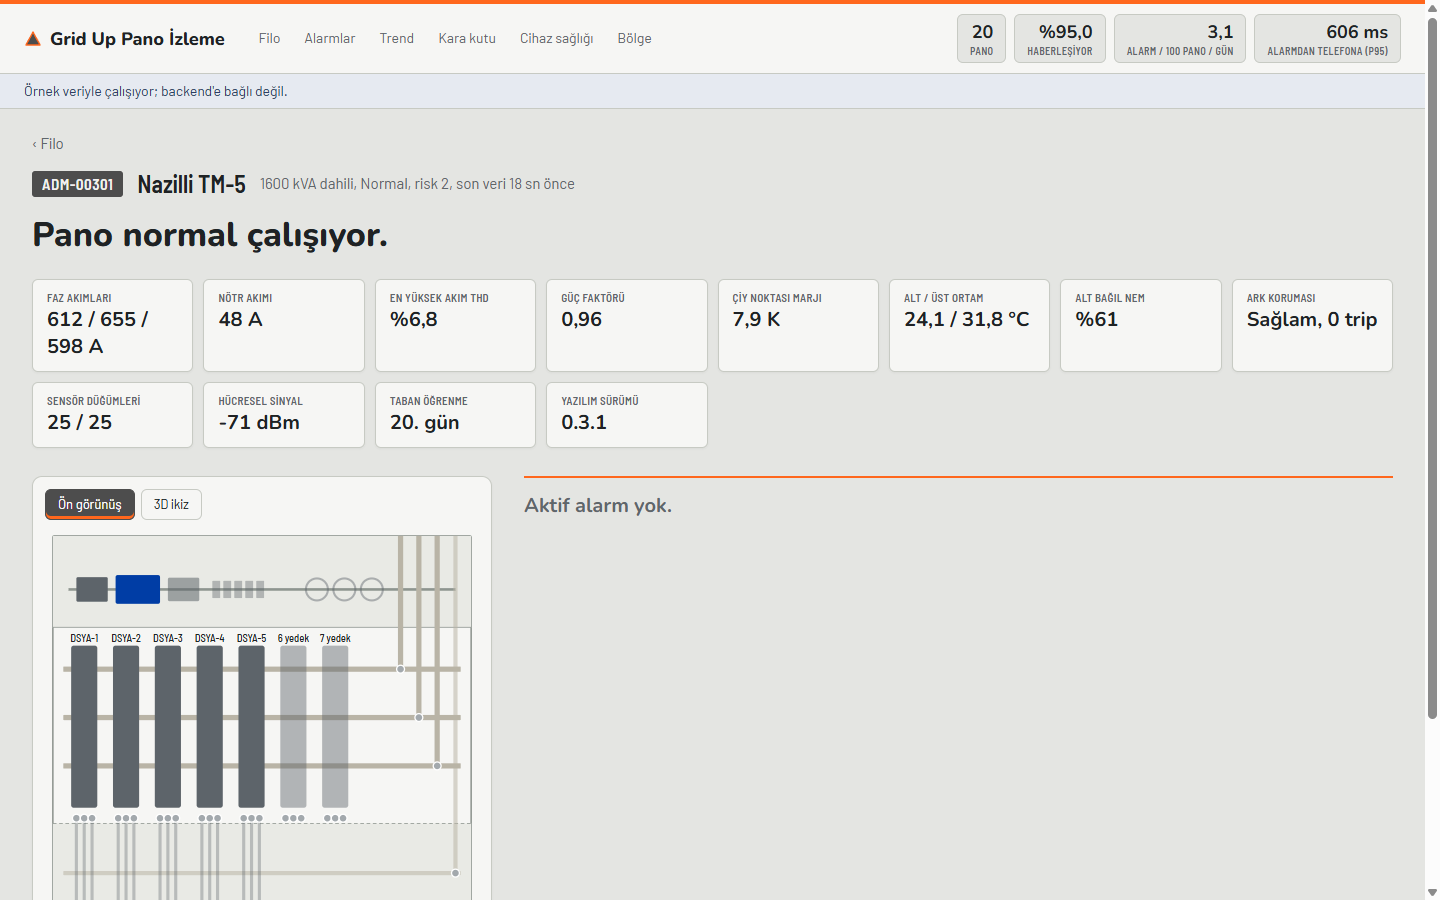
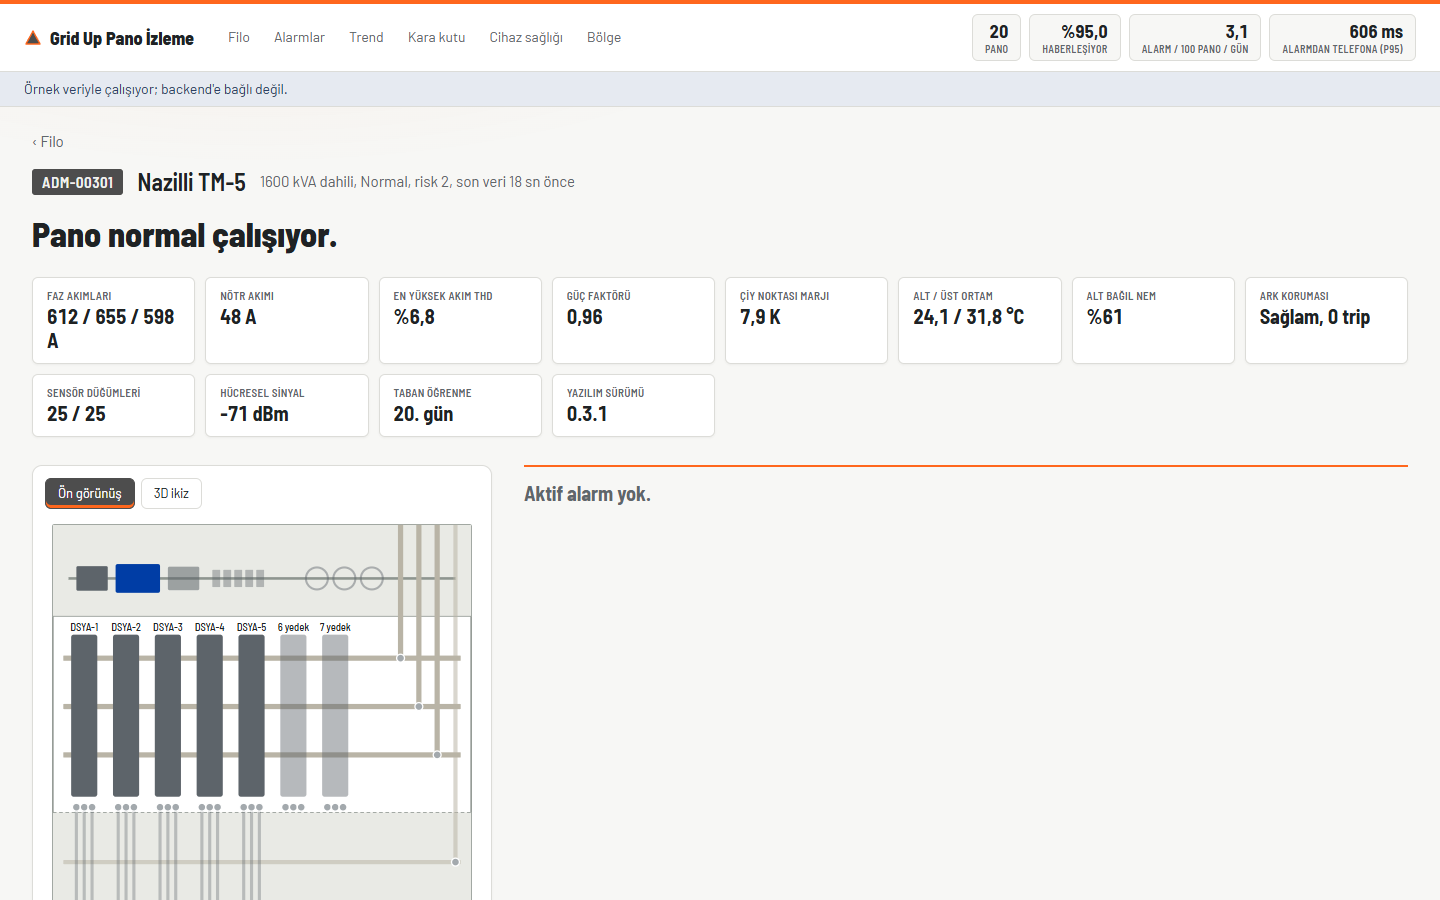
style(frontend): zemin aciktan beyaza + tek font ailesi (kullanici geri bildirimi)
Kullanici: "arkaplani biraz daha ac beyaz tonlari... grimsi renkten
kurtul bir de fontta tek bir standarttan ilerleyelim."

- theme.css: --bg #E4E5E2 -> #F7F7F5, --surface -> #FFFFFF (tam
  beyaz kart zemini), --well/--line orantili acildi. body'ye ust
  banttan sarkan %8 opakliktaki turuncu radial-gradient eklendi —
  marka rengini zemine tasir, veri alanindaki durum renkleriyle
  yarismaz (ISA-101 "renk = alarm" kurali korunur).
- --display token'i Nunito'dan Barlow Semi Condensed'e cevrildi
  (yani --cond ile ayni yigin) — ayri bir marka fontu yok, urun tek
  font ailesi (Barlow + Barlow Semi Condensed, ayni ailenin iki
  genisligi) kullaniyor. @fontsource/nunito paketten kaldirildi
  (npm uninstall); main.tsx'e Barlow Semi Condensed 800 eklendi.
- assets/ekran/: 8 dosya dorduncu kez yeniden cekildi.

Ayrinti: TASARIM-REVIZYONU.md §11, STATUS.md §13. Onceki adimda
yayinlanan onceki/sonraki karsilastirma Artifact'i da guncellendi.

Dogrulama: tsc temiz, 71/71 test yesil, build basarili; 1440px ve
390px genislikte gorsel+konsol kontrolunden gecti.

diff --git a/frontend/src/theme.css b/frontend/src/theme.css
@@ -6,13 +6,13 @@
    veri alaninda, grafiklerde ve 3D sahnede asla kullanilmaz (plan §3.2).
    Kaynak: admelektrik.com.tr ve gdzelektrik.com.tr hesaplanmis CSS token'lari. */
 :root {
-  --bg: #e4e5e2;
-  --surface: #f6f6f4;
-  --well: #d9dbd5;
+  --bg: #f7f7f5; /* acik, beyaza yakin zemin — RAL7035 grimsi tondan bilerek uzaklasildi */
+  --surface: #ffffff;
+  --well: #eeeeec;
   --plate: #4d4d4d; /* ADM/GDZ ikincil rengi: kimlik plakalari, birincil dugmeler */
   --ink: #1f2224;
   --dim: #5f666b;
-  --line: #c7cac3;
+  --line: #dcdcd8;
 
   --p1: #c62828;
   --p2: #d9530f; /* marka turuncusundan (#FF671D) kasitli olarak ayristirilmis ton, plan §3.2 */
@@ -27,9 +27,11 @@
   --bar: #b9b4a6;
   --device: #5d646a;
 
+  /* Tek font ailesi (Barlow) — kullanici talebi: "fontta tek bir standarttan ilerleyelim".
+     --display artik --cond ile ayni yigin; ayri bir marka fontu (eskiden Nunito) yok. */
   --sans: "Barlow", system-ui, sans-serif;
   --cond: "Barlow Semi Condensed", "Barlow", system-ui, sans-serif;
-  --display: "Nunito", "Barlow", system-ui, sans-serif; /* marka yazi tipi: urun adi, sayfa basliklari, durum cumlesi */
+  --display: "Barlow Semi Condensed", "Barlow", system-ui, sans-serif;
 
   /* Kart sistemi: duz sinirlardan yukselti/derinlige (Hitachi APM, ABB SWICOM, Cognite Canvas
      tarzi kart+golge dashboard'lari) — bkz. TASARIM-REVIZYONU.md §10 "Duzen revizyonu". */
@@ -53,7 +55,9 @@ body {
 }
 
 body {
-  background: var(--bg);
+  /* Ust banttan sarkan cok hafif turuncu parilti — marka rengini zemine tasir, ama
+     %8 opaklikta oldugu icin veri alanindaki durum renkleriyle asla yarismaz. */
+  background: radial-gradient(1100px 480px at 18% -120px, rgba(255, 103, 29, 0.08), transparent 60%), var(--bg);
   color: var(--ink);
   font: 15px/1.45 var(--sans);
   -webkit-font-smoothing: antialiased;

diff --git a/frontend/src/app.css b/frontend/src/app.css
@@ -245,7 +245,7 @@
 .btn:disabled { opacity: 0.55; cursor: default; filter: none; }
 .btn.ghost { background: var(--surface); color: var(--ink); border-color: var(--line); }
 .btn.ghost:hover { background: var(--well); filter: none; }
-/* Bos/sakin durum: ince marka cizgisi + Nunito cumle (plan §3.5, "sakin anlar marka anlari olur"). */
+/* Bos/sakin durum: ince marka cizgisi + kalin cumle (plan §3.5, "sakin anlar marka anlari olur"). */
 .calm { font: 700 20px var(--display); color: var(--dim); border-top: 2px solid var(--brand); padding-top: 14px; margin: 0; }
 
 .others { margin-top: 24px; }
@@ -267,7 +267,7 @@
 .ph-v { text-align: right; font: 600 16px var(--cond); }
 
 /* Saglik seridi: ABB SWICOM/Hitachi APM'deki durum ozet baricci gibi, artik split'ten ONCE
-   ve daima tam gorunur (PanoDetay.tsx) — yukseltilmis karolar, buyuk Nunito rakamlar. */
+   ve daima tam gorunur (PanoDetay.tsx) — yukseltilmis karolar, buyuk rakamlar. */
 .facts { display: grid; grid-template-columns: repeat(auto-fill, minmax(160px, 1fr)); gap: 10px; margin: 18px 0 28px; }
 .fact { background: var(--surface); border: 1px solid var(--line); border-radius: var(--radius-sm); box-shadow: var(--shadow-sm); padding: 11px 14px; }
 .fact .k { color: var(--dim); font: 600 11px var(--cond); text-transform: uppercase; letter-spacing: 0.03em; }

diff --git a/frontend/src/main.tsx b/frontend/src/main.tsx
@@ -1,12 +1,12 @@
 // Yazi tipleri npm paketinden: calisma aninda internet gerekmez (GK4). Turkce karakterler latin-ext alt kumesinde.
+// Tek font ailesi (Barlow + Barlow Semi Condensed, ayni ailenin iki genisligi) — kullanici talebi.
 import "@fontsource/barlow/400.css";
 import "@fontsource/barlow/500.css";
 import "@fontsource/barlow/600.css";
 import "@fontsource/barlow-semi-condensed/500.css";
 import "@fontsource/barlow-semi-condensed/600.css";
 import "@fontsource/barlow-semi-condensed/700.css";
-import "@fontsource/nunito/700.css";
-import "@fontsource/nunito/800.css";
+import "@fontsource/barlow-semi-condensed/800.css";
 import "./theme.css";
 import "./app.css";
 

diff --git a/STATUS.md b/STATUS.md
@@ -9,8 +9,27 @@
 > PLAN.md'de yalnızca kutucuk işaretleme ve "Günlük Kayıt" satırı ekleme yapılır (kural: ortak dosya).
 > Her önemli adımdan sonra bu dosya güncellenir. Dal: `berke/frontend` (origin'e push edildi).
 
-**Son güncelleme:** 14 Eylül 2026 akşam (kullanıcı geri bildirimi üzerine düzen revizyonu, §12).
-**Son commit:** Düzen revizyonu — kart sistemi, KPI/sağlık karoları, marka görünürlüğü artırıldı.
+**Son güncelleme:** 14 Eylül 2026 akşam (zemin açıldı, tek font ailesine geçildi, §13).
+**Son commit:** Zemin RAL7035'ten beyaza yakın tona geçti + tek font ailesi (Nunito kaldırıldı).
+
+## 13. Oturum 6 devamı — zemin ve tipografi: tek standart
+
+Kullanıcı §12'deki düzen revizyonunun hemen ardından: "arkaplanı biraz daha aç beyaz tonları belki
+turuncu hafif fade efekti olabilir backgroundda şu grimsi renkten kurtul bir de fontta tek bir
+standarttan ilerleyelim."
+
+- `--bg` `#E4E5E2` → `#F7F7F5`, `--surface` → `#FFFFFF`, `--well`/`--line` orantılı açıldı.
+- `body`'ye üst banttan sarkan %8 opaklıkta turuncu `radial-gradient` eklendi.
+- `--display` token'ı Nunito'dan Barlow Semi Condensed'e (yani `--cond` ile aynı) çevrildi;
+  `@fontsource/nunito` paketten kaldırıldı. Ürün artık tek font ailesi (Barlow ailesi, iki
+  genişlik) kullanıyor.
+- `assets/ekran/`'daki 8 dosya dördüncü kez yeniden çekildi; önce/sonra karşılaştırma Artifact'ı
+  (bkz. §12) güncellendi.
+
+Ayrıntı: `frontend/TASARIM-REVIZYONU.md` §11. Doğrulama: tsc temiz, 71/71 test yeşil, build
+başarılı, 1440px/390px görsel kontrol.
+
+## 12. Oturum 6 — Kullanıcı geri bildirimi: "tasarımda değişiklik göremiyorum" + düzen revizyonu
 
 ## 12. Oturum 6 — Kullanıcı geri bildirimi: "tasarımda değişiklik göremiyorum" + düzen revizyonu
 

diff --git a/frontend/TASARIM-REVIZYONU.md b/frontend/TASARIM-REVIZYONU.md
@@ -313,6 +313,28 @@ dosya adları).
 
 ---
 
+## 11. Zemin ve tipografi: tek standart (kullanıcı geri bildirimi, aynı oturum)
+
+Kullanıcı: "arkaplanı biraz daha aç beyaz tonları... şu grimsi renkten kurtul bir de fontta tek bir
+standarttan ilerleyelim."
+
+- **Zemin.** `--bg` RAL7035 grimsi tondan (`#E4E5E2`) açık/beyaza yakın bir tona (`#F7F7F5`) geçti;
+  `--surface` (kart zemini) tam beyaza (`#FFFFFF`); `--well` ve `--line` orantılı olarak açıldı.
+  `body`'ye üst banttan sarkan, %8 opaklıkta bir `radial-gradient` turuncu parıltı eklendi
+  (`theme.css`) — marka rengini zemine taşır ama veri alanındaki durum renkleriyle asla yarışmaz
+  (opaklık çok düşük, ISA-101 "renk = alarm" kuralını bozmaz).
+- **Tipografi — tek aile.** `--display` token'ı artık ayrı bir marka fontu (Nunito) değil,
+  `--cond` (Barlow Semi Condensed) ile aynı yığın; `@fontsource/nunito` paketten tamamen
+  kaldırıldı (`npm uninstall`). Ürün artık tek bir font ailesi kullanıyor: Barlow (gövde metni) +
+  Barlow Semi Condensed (başlıklar, etiketler, rakamlar) — ikisi aynı ailenin iki genişliği,
+  ayrı bir "marka sesi" fontu yok. `main.tsx`'e Barlow Semi Condensed 800 ağırlığı eklendi (büyük
+  başlıklarda kullanılan tek ağırlık).
+- **Doğrulama:** `tsc --noEmit` temiz, 71/71 test yeşil, `vite build` başarılı; Filo/Pano detay/
+  Alarm konsolu 1440px ve 390px'de görsel + konsol kontrolünden geçti. `assets/ekran/`'daki 8 dosya
+  dördüncü kez yeniden çekildi; önce/sonra karşılaştırma Artifact'ı güncellendi.
+
+---
+
 ## Kaynaklar
 
 - ADM Elektrik: <https://www.admelektrik.com.tr/> · GDZ Elektrik: <https://www.gdzelektrik.com.tr/>
